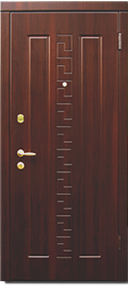
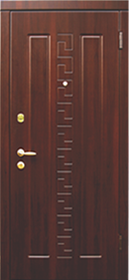
door-4 cut

diff --git a/index.html b/index.html
@@ -179,9 +179,9 @@
           </div>
           <div class="col-lg-8 col-md-8 col-sm-8 col-xs-8">
             <article class="main-article">
-              <p>Повседневная практика показывает, что постоянный количественный Повседневная практика показывает, что постоянный количественный Повседневная практика показывает, что постоянный количественный Повседневная практика показывает, что постоянный количественный Повседневная практика показывает, что постоянный количественный Повседневная практика показывает, что постоянный количественный</p>
-              <p>Повседневная практика показывает, что постоянный количественный Повседневная практика показывает, что постоянный количественный Повседневная практика показывает, что постоянный количественный Повседневная практика показывает, что постоянный количественный Повседневная практика показывает, что постоянный количественный Повседневная практика показывает, что постоянный количественный</p>
-              <p>Повседневная практика показывает, что постоянный количественный Повседневная практика показывает, что постоянный количественный Повседневная практика показывает, что постоянный количественный Повседневная практика показывает, что постоянный количественный Повседневная практика показывает, что постоянный количественный Повседневная практика показывает, что постоянный количественный</p>
+              <p>Повседневная практика показывает, что постоянный количественный Каждая следующая панель вставляется в паз предыдущей, фиксируется с помощью специальных саморезов и так далее. Следует учесть, что при появлении зазоров между панелью и стеной следует заделать их с помощью монтажной пены. После того как всю поверхность покрыли термопанелями переходят к затирке.</p>
+              <p>Производить монтаж следует,  начиная с левого угла здания - монтаж производится слева направо и снизу вверх. Закрепив первую панель с помощью саморезов, и, проверив уровень, следует приступить к установке следующей панели. Каждая следующая панель вставляется в паз предыдущей, фиксируется с помощью специальных саморезов и так далее. Следует учесть,  что при появлении зазоров между панелью и стеной следует заделать их с помощью монтажной пены. После того как всю поверхность покрыли термопанелями переходят к затирке. Затирка швов  производится с помощью специализированной затирки, для того чтоб не было видно  зазоров между панелями и крепежных материалов (саморезов)</p>
+              <p>Повседневная практика показывает, что постоянный количественный Горизонтальность данной линии нужно контролировать с помощью уровня. Все выравнивается до миллиметра, т.к. при минимальном перекосе в нижней точке качество работ значительно снижается. Перекос  будет сильно  заметен, а это скажется на внешнем виде строения.</p>
               <p>Lorem ipsum dolor sit amet, consectetur adipisicing elit. Modi odio officia ad iste veniam incidunt quidem maiores, amet commodi quibusdam deserunt natus, odit velit inventore numquam, corrupti adipisci. Exercitationem, fugiat!</p>
               <p>Lorem ipsum dolor sit amet, consectetur adipisicing elit. Modi odio officia ad iste veniam incidunt quidem maiores, amet commodi quibusdam deserunt natus, odit velit inventore numquam, corrupti adipisci. Exercitationem, fugiat!</p>
               <p>Lorem ipsum dolor sit amet, consectetur adipisicing elit. Modi odio officia ad iste veniam incidunt quidem maiores, amet commodi quibusdam deserunt natus, odit velit inventore numquam, corrupti adipisci. Exercitationem, fugiat!</p>

diff --git a/css/style.css b/css/style.css
@@ -10315,7 +10315,10 @@ button.close {
   text-align: center; }
 
 .door-img {
-  margin: auto; }
+  margin: auto;
+  -webkit-box-shadow: 0px 2px 12px 0px rgba(0, 0, 0, 0.75);
+  -moz-box-shadow: 0px 2px 12px 0px rgba(0, 0, 0, 0.75);
+  box-shadow: 0px 2px 12px 0px rgba(0, 0, 0, 0.75); }
 
 .door-1 span {
   background: url(../img/door-1.png) center center no-repeat;
@@ -10479,6 +10482,8 @@ button.close {
   -webkit-box-shadow: 0px 0px 21px -1px rgba(0, 0, 0, 0.65);
   -moz-box-shadow: 0px 0px 21px -1px rgba(0, 0, 0, 0.65);
   box-shadow: 0px 0px 21px -1px rgba(0, 0, 0, 0.65); }
+  .main-article p {
+    text-indent: 17px; }
 
 .servise-call-main {
   display: flex;

diff --git a/css/style.scss b/css/style.scss
@@ -452,6 +452,9 @@ $mgrey: #f6f4f3;
 
 .door-img {
 	margin: auto;
+	-webkit-box-shadow: 0px 2px 12px 0px rgba(0,0,0,0.75);
+	-moz-box-shadow: 0px 2px 12px 0px rgba(0,0,0,0.75);
+	box-shadow: 0px 2px 12px 0px rgba(0,0,0,0.75);
 }
 .door-1 {
 	span {
@@ -689,6 +692,9 @@ $mgrey: #f6f4f3;
 	-webkit-box-shadow: 0px 0px 21px -1px rgba(0,0,0,0.65);
 	-moz-box-shadow: 0px 0px 21px -1px rgba(0,0,0,0.65);
 	box-shadow: 0px 0px 21px -1px rgba(0,0,0,0.65);
+	p {
+		text-indent: 17px;
+	}
 }
 
 
